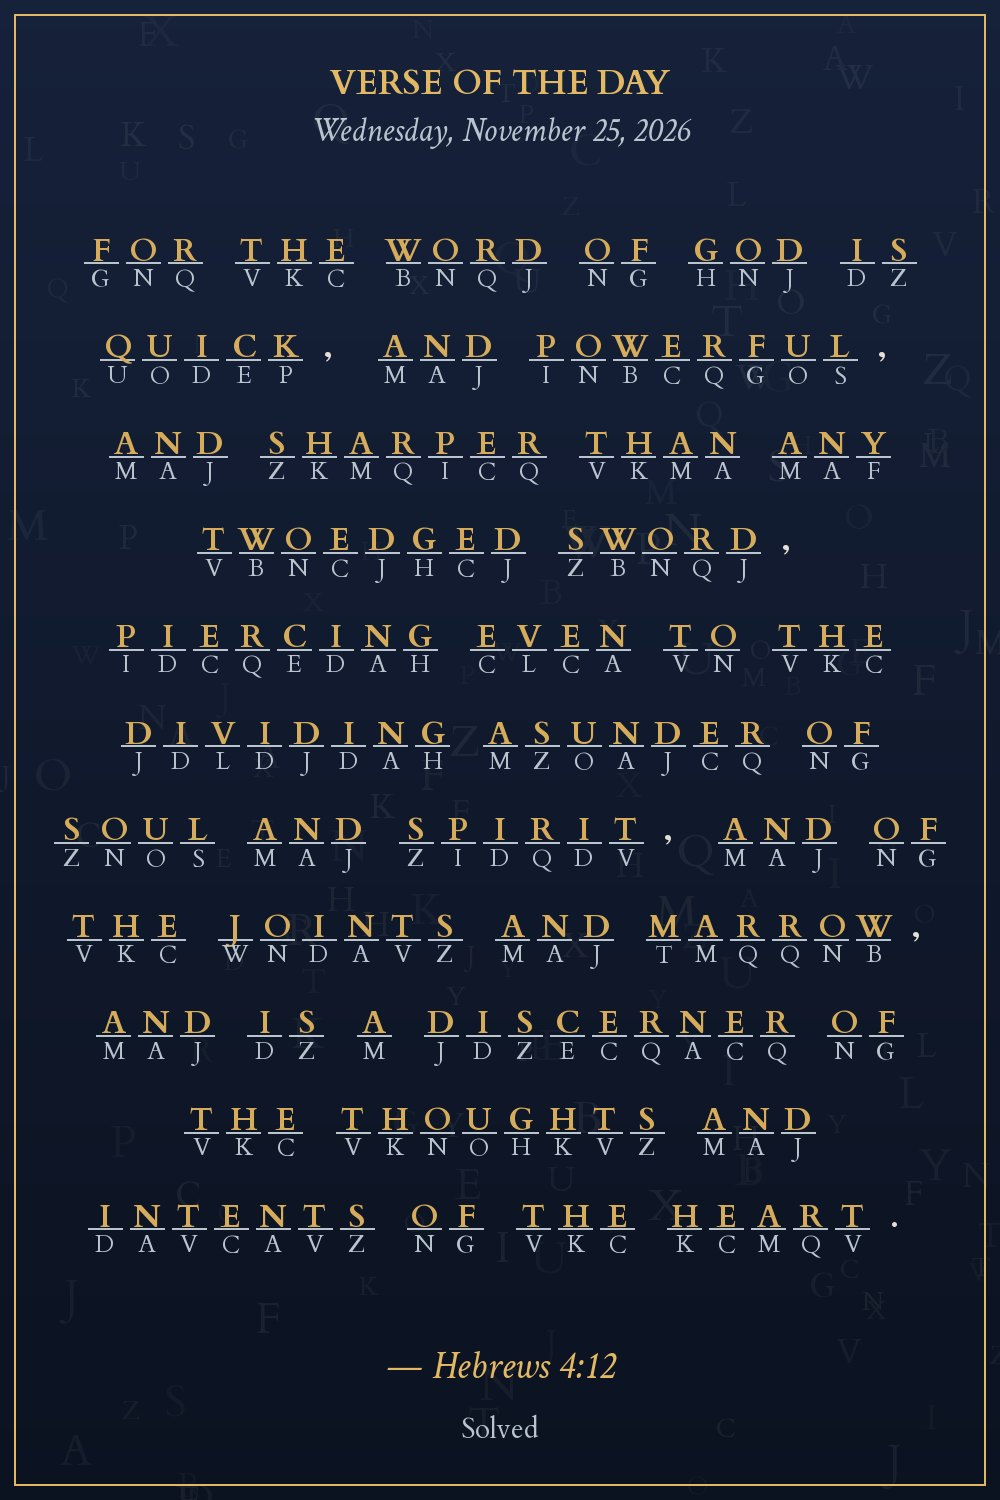
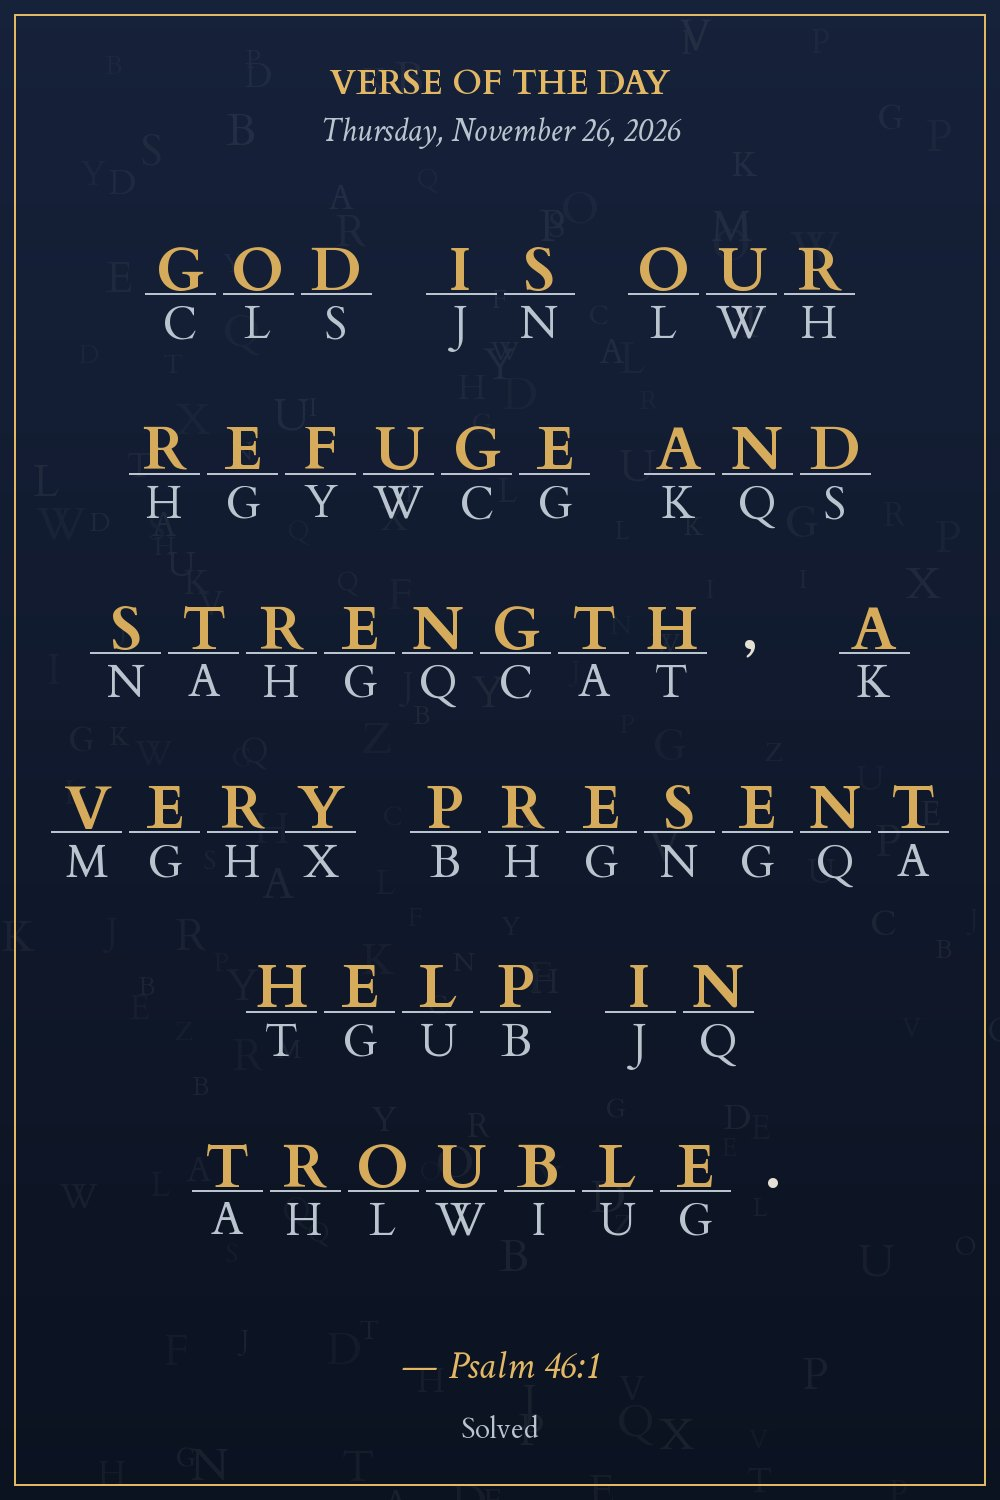
Of the day: 2026-11-26 (rendered early), plus dated play files for today and tomorrow so the site never shows yesterday when GitHub starts the job late; Bible Verses cover for the site shelf
Claude-Session: https://claude.ai/code/session_013cDisHzdKydWMGRqShFePh

diff --git a/daily.py b/daily.py
@@ -243,6 +243,32 @@ def save(im, path):
     im.save(path, quality=86, optimize=True, progressive=True)
 
 
+def build_play(day):
+    """The playable puzzle and the three questions for one day, as data for the site."""
+    items = calendar(day)
+    quiz_items = dict(items)
+    for feed in ("word", "fact", "history"):
+        for k in [-b for b in range(1, 31)] + list(range(1, 31)):
+            if feed in quiz_items:
+                break
+            got = calendar(day + timedelta(days=k)).get(feed)
+            if got:
+                quiz_items[feed] = got
+    play = {"date": day.isoformat(), "feeds": {}}         # the playable puzzle on the home page (play.html)
+    for feed, title in (("quote", "Quote of the Day"), ("verse", "Verse of the Day")):
+        it = items.get(feed)
+        if it and it.get("text"):
+            enc = cipher(it["text"], f"{day}-{feed}")      # the same code as the day's image
+            hint = next((ch for ch in sorted(set(enc), key=lambda x: -enc.count(x)) if ch.isalpha()), None)
+            plain = it["text"].upper()
+            play["feeds"][feed] = {"title": title, "cipher": enc, "text": it["text"], "credit": it.get("credit", ""),
+                                   "hint": [hint, plain[enc.index(hint)]] if hint else None}
+    play["quiz"] = [dict(name=n, **{k: v for k, v in sp_.items() if k in ("title", "big", "sub", "prompt", "options",
+                                                                         "answer", "note")})
+                    for n, sp_ in quiz_specs(quiz_items)]      # the three questions, tappable on the home page
+    return play
+
+
 def main():
     ap = argparse.ArgumentParser()
     ap.add_argument("--date")
@@ -277,19 +303,19 @@ def main():
         if it:
             label = "Yesterday's answer" if k == 1 else past.strftime("%A, %b %-d")
             save(card(it, label, f"{past}-quote"), HERE / "week" / f"{k}.jpg")
-    play = {"date": day.isoformat(), "feeds": {}}         # the playable puzzle on the home page (play.html)
-    for feed, title in (("quote", "Quote of the Day"), ("verse", "Verse of the Day")):
-        it = items.get(feed)
-        if it and it.get("text"):
-            enc = cipher(it["text"], f"{day}-{feed}")      # the same code as the day's image
-            hint = next((ch for ch in sorted(set(enc), key=lambda x: -enc.count(x)) if ch.isalpha()), None)
-            plain = it["text"].upper()
-            play["feeds"][feed] = {"title": title, "cipher": enc, "text": it["text"], "credit": it.get("credit", ""),
-                                   "hint": [hint, plain[enc.index(hint)]] if hint else None}
-    play["quiz"] = [dict(name=n, **{k: v for k, v in sp_.items() if k in ("title", "big", "sub", "prompt", "options",
-                                                                         "answer", "note")})
-                    for n, sp_ in quiz_specs(quiz_items)]      # the three questions, tappable on the home page
+    play = build_play(day)
     (HERE / "today" / "play.json").write_text(json.dumps(play, ensure_ascii=False, indent=1) + "\n", encoding="utf-8")
+    # Also by date, today and tomorrow (Nov 26): GitHub often starts this job hours late, so the site picks
+    # the file for the visitor's own date and only falls back to play.json.
+    for d in (day, day + timedelta(days=1)):
+        (HERE / "today" / f"play-{d.isoformat()}.json").write_text(
+            json.dumps(build_play(d), ensure_ascii=False, indent=1) + "\n", encoding="utf-8")
+    for old in (HERE / "today").glob("play-*.json"):          # keep a few days
+        try:
+            if date.fromisoformat(old.stem[5:]) < day - timedelta(days=3):
+                old.unlink()
+        except ValueError:
+            pass
     (HERE / "today" / "date.txt").write_text(day.isoformat() + "\n")
     print("rendered", day)
 
